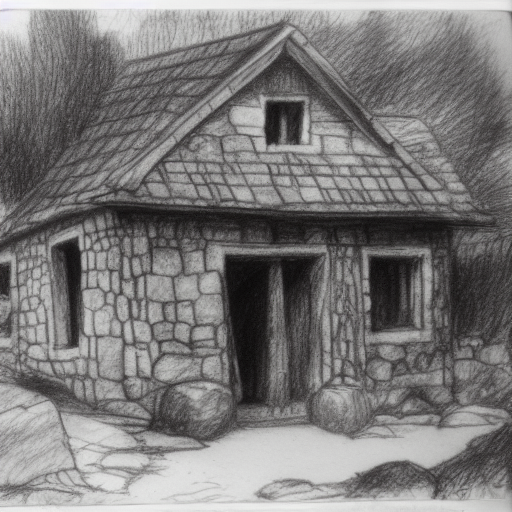
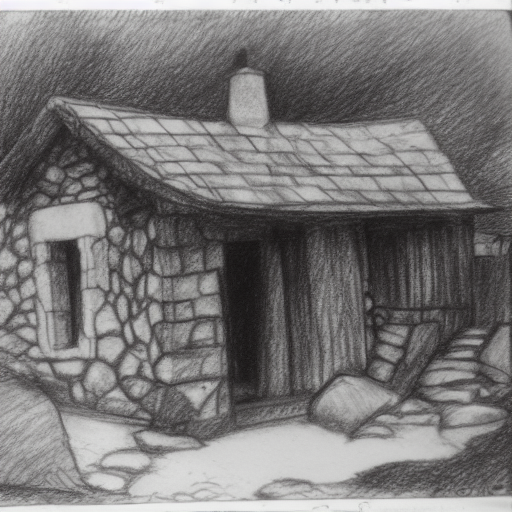
corpus: complete 8-look set (linocut --offline fix verified) + regen gallery
linocut now renders offline (prompt preset, no Civitai download/timeout) —
the discovery file-required fix (7343b69) confirmed live, not just unit.
All 8 looks present + verified (ink-wash…gouache, linocut). Gallery
re-indexed (61 images); the deferred outpaint (bands, #721) and stylize
(content-not-style, #722) outputs are excluded until properly fixed.

diff --git a/corpus/GALLERY.md b/corpus/GALLERY.md
@@ -1,90 +1,109 @@
 # plakat gallery
 
-50 images generated with **plakat**. Each is self-documenting — its generation parameters are embedded in the PNG. This index was built by `plakat gallery`.
+61 images generated with **plakat**. Each is self-documenting — its generation parameters are embedded in the PNG. This index was built by `plakat gallery`.
 
 <table>
   <tr>
     <td width="33%"><img src="images/animate/flower_bloom/animation.gif" alt="a time-lapse of a red rose blooming, macro photography, soft light"></td>
+    <td width="33%"><img src="images/script/fox-2x.png" alt=""></td>
     <td width="33%"><img src="images/animate/fox_snow/animation.gif" alt="a red fox walking through a snowy forest, cinematic, highly detailed"></td>
-    <td width="33%"><img src="images/upscale/landscape_x2/landscape_x2.png" alt=""></td>
   </tr>
   <tr>
+    <td width="33%"><img src="images/upscale/landscape_x2/landscape_x2.png" alt=""></td>
     <td width="33%"><img src="images/animate/ocean_waves/animation.gif" alt="ocean waves crashing on a rocky shore at sunset, cinematic, golden light"></td>
     <td width="33%"><img src="images/weather-scene/day_clear/plakat-42.png" alt=""></td>
-    <td width="33%"><img src="images/sd15/sd15_landscape/plakat-42.png" alt=""></td>
   </tr>
   <tr>
+    <td width="33%"><img src="images/genres/anime/plakat-42.png" alt="anime illustration, cel-shaded, clean line art, a lone knight resting under a blossoming cherry tree, anime aesthetic, expressive style, stylized proportions"></td>
+    <td width="33%"><img src="images/sd15/sd15_landscape/plakat-42.png" alt=""></td>
     <td width="33%"><img src="images/sdxl/sdxl_landscape/plakat-42.png" alt=""></td>
+  </tr>
+  <tr>
     <td width="33%"><img src="images/style-sd15/harbour/plakat-42.png" alt="a fishing harbour with wooden boats and distant hills, wcstyle watercolour painting illustration"></td>
     <td width="33%"><img src="images/style-sd15/winter-village/plakat-42.png" alt="a snow-covered mountain village among pines at dusk, wcstyle watercolour painting illustration"></td>
-  </tr>
-  <tr>
     <td width="33%"><img src="images/style-sd15/river-orchard/plakat-42.png" alt="a quiet riverside orchard with a wooden footbridge in autumn, wcstyle watercolour painting illustration"></td>
-    <td width="33%"><img src="images/style-sdxl/harbour/plakat-42.png" alt="a fishing harbour with wooden boats and distant hills, wcstyle watercolour painting illustration"></td>
-    <td width="33%"><img src="images/style-sdxl/winter-village/plakat-42.png" alt="a snow-covered mountain village among pines at dusk, wcstyle watercolour painting illustration"></td>
   </tr>
   <tr>
+    <td width="33%"><img src="images/looks/oil-painting/plakat-42.png" alt="oil painting, thick impasto brushstrokes, a stone cottage by a forest stream, on canvas texture, classical oil painting technique, rich pigments"></td>
+    <td width="33%"><img src="images/looks/charcoal/plakat-42.png" alt="charcoal drawing, monochromatic, dramatic chiaroscuro, a stone cottage by a forest stream, on textured paper, smudged shading, expressive marks"></td>
+    <td width="33%"><img src="images/looks/gouache/plakat-42.png" alt="gouache painting, opaque matte colors, a stone cottage by a forest stream, on illustration board, flat areas of color, illustrative"></td>
+  </tr>
+  <tr>
+    <td width="33%"><img src="images/looks/ink-wash/plakat-42.png" alt="ink wash painting, sumi-e style, monochromatic ink on rice paper, a stone cottage by a forest stream, traditional brush strokes, atmospheric negative space"></td>
+    <td width="33%"><img src="images/looks/chalk-pastel/plakat-42.png" alt="chalk pastel drawing, soft pastel strokes, a stone cottage by a forest stream, on textured paper, vibrant matte pigments, dusty surface"></td>
+    <td width="33%"><img src="images/looks/linocut/plakat-42.png" alt="linocut print, bold carved lines, high contrast, a stone cottage by a forest stream, limited palette, traditional relief print, visible carving marks"></td>
+  </tr>
+  <tr>
+    <td width="33%"><img src="images/looks/watercolor/plakat-42.png" alt="watercolor painting, soft transparent washes, a stone cottage by a forest stream, on cold-pressed paper, traditional watercolor techniques, visible paper texture"></td>
+    <td width="33%"><img src="images/looks/pencil/plakat-42.png" alt="pencil drawing, fine graphite lines, hatching and cross-hatching, a stone cottage by a forest stream, on sketchbook paper, traditional pencil sketch, detailed line work"></td>
+    <td width="33%"><img src="images/style-sdxl/harbour/plakat-42.png" alt="a fishing harbour with wooden boats and distant hills, wcstyle watercolour painting illustration"></td>
+  </tr>
+  <tr>
+    <td width="33%"><img src="images/style-sdxl/winter-village/plakat-42.png" alt="a snow-covered mountain village among pines at dusk, wcstyle watercolour painting illustration"></td>
     <td width="33%"><img src="images/style-sdxl/river-orchard/plakat-42.png" alt="a quiet riverside orchard with a wooden footbridge in autumn, wcstyle watercolour painting illustration"></td>
     <td width="33%"><img src="images/sd21/sd21_landscape/plakat-42.png" alt=""></td>
-    <td width="33%"><img src="images/weather-scene/day_storm/plakat-43.png" alt=""></td>
   </tr>
   <tr>
+    <td width="33%"><img src="images/weather-scene/day_storm/plakat-43.png" alt=""></td>
     <td width="33%"><img src="images/sd15/sd15_portrait/plakat-43.png" alt=""></td>
     <td width="33%"><img src="images/sdxl/sdxl_portrait/plakat-43.png" alt=""></td>
-    <td width="33%"><img src="images/sd21/sd21_portrait/plakat-43.png" alt=""></td>
   </tr>
   <tr>
+    <td width="33%"><img src="images/sd21/sd21_portrait/plakat-43.png" alt=""></td>
     <td width="33%"><img src="images/weather-scene/day_fog/plakat-44.png" alt=""></td>
     <td width="33%"><img src="images/sd15/sd15_still_life/plakat-44.png" alt=""></td>
-    <td width="33%"><img src="images/sdxl/sdxl_fantasy/plakat-44.png" alt=""></td>
   </tr>
   <tr>
+    <td width="33%"><img src="images/sdxl/sdxl_fantasy/plakat-44.png" alt=""></td>
     <td width="33%"><img src="images/sd21/sd21_still_life/plakat-44.png" alt=""></td>
     <td width="33%"><img src="images/weather-scene/dusk_clear/plakat-45.png" alt=""></td>
-    <td width="33%"><img src="images/sd15/sd15_controlnet_canny/plakat-45.png" alt=""></td>
   </tr>
   <tr>
+    <td width="33%"><img src="images/sd15/sd15_controlnet_canny/plakat-45.png" alt=""></td>
     <td width="33%"><img src="images/sdxl/sdxl_controlnet_canny/plakat-45.png" alt=""></td>
     <td width="33%"><img src="images/weather-scene/night_clear/plakat-46.png" alt=""></td>
-    <td width="33%"><img src="images/cascade/cascade_landscape/plakat-cascade-42.png" alt="a serene mountain lake at golden sunrise, snow-capped peak behind, autumn forest on the shore, photorealistic"></td>
   </tr>
   <tr>
+    <td width="33%"><img src="images/cascade/cascade_landscape/plakat-cascade-42.png" alt="a serene mountain lake at golden sunrise, snow-capped peak behind, autumn forest on the shore, photorealistic"></td>
     <td width="33%"><img src="images/cascade/cascade_portrait_oil/plakat-cascade-43.png" alt="a portrait of a weathered fisherman in his sixties, kind eyes, knitted sweater, soft window light, oil paint style"></td>
     <td width="33%"><img src="images/cascade/cascade_watercolour/plakat-cascade-44.png" alt="an abstract book illustration in salvador dali style, a ring of apple trees with blue leaves around a small figure reading, night sky, watercolor"></td>
-    <td width="33%"><img src="images/cascade/cascade_city/plakat-cascade-45.png" alt="a busy european street in the 1850s, two-storey houses, vendors and crowds in light tunics, bright low sun with visible rays, photorealistic"></td>
   </tr>
   <tr>
+    <td width="33%"><img src="images/cascade/cascade_city/plakat-cascade-45.png" alt="a busy european street in the 1850s, two-storey houses, vendors and crowds in light tunics, bright low sun with visible rays, photorealistic"></td>
     <td width="33%"><img src="images/cascade/cascade_controlnet_canny/plakat-cascade-46.png" alt="a cozy cottage in an autumn forest, golden leaves, photorealistic"></td>
     <td width="33%"><img src="images/img2img/forest_inkwash/plakat-img2img-42.png" alt=""></td>
-    <td width="33%"><img src="images/img2img/portrait_watercolor/plakat-img2img-42.png" alt=""></td>
   </tr>
   <tr>
+    <td width="33%"><img src="images/img2img/portrait_watercolor/plakat-img2img-42.png" alt=""></td>
     <td width="33%"><img src="images/img2img/coast_oil/plakat-img2img-42.png" alt=""></td>
+    <td width="33%"><img src="images/inpaint/plakat-inpaint-42.png" alt=""></td>
+  </tr>
+  <tr>
     <td width="33%"><img src="images/pixart/pixart_landscape/plakat-pixart-42.png" alt="terraced rice fields at dawn, mist in the valley, a lone farmer, photorealistic"></td>
     <td width="33%"><img src="images/pixart/pixart_still_life/plakat-pixart-43.png" alt="a rustic still life of bread, cheese, grapes and a clay jug on a wooden table, warm light, oil painting"></td>
+    <td width="33%"><img src="images/pixart/pixart_scifi/plakat-pixart-44.png" alt="a sleek solar-sail spacecraft passing a ringed gas giant, distant stars, detailed sci-fi illustration"></td>
   </tr>
   <tr>
-    <td width="33%"><img src="images/pixart/pixart_scifi/plakat-pixart-44.png" alt="a sleek solar-sail spacecraft passing a ringed gas giant, distant stars, detailed sci-fi illustration"></td>
     <td width="33%"><img src="images/portrait/astronaut/plakat-portrait-42.png" alt=""></td>
     <td width="33%"><img src="images/portrait/cartographer/plakat-portrait-42.png" alt=""></td>
+    <td width="33%"><img src="images/portrait/blacksmith/plakat-portrait-42.png" alt=""></td>
   </tr>
   <tr>
-    <td width="33%"><img src="images/portrait/blacksmith/plakat-portrait-42.png" alt=""></td>
     <td width="33%"><img src="images/portrait/sage_scholar/plakat-portrait-42.png" alt=""></td>
     <td width="33%"><img src="images/portrait/sage_captain/plakat-portrait-43.png" alt=""></td>
+    <td width="33%"><img src="images/style/harbour/plakat-sd3-denoise-42.png" alt=""></td>
   </tr>
   <tr>
-    <td width="33%"><img src="images/style/harbour/plakat-sd3-denoise-42.png" alt=""></td>
     <td width="33%"><img src="images/style/winter-village/plakat-sd3-denoise-42.png" alt=""></td>
     <td width="33%"><img src="images/style/river-orchard/plakat-sd3-denoise-42.png" alt=""></td>
+    <td width="33%"><img src="images/sd35/sd35_still_life/plakat-sd3-denoise-42.png" alt=""></td>
   </tr>
   <tr>
-    <td width="33%"><img src="images/sd35/sd35_still_life/plakat-sd3-denoise-42.png" alt=""></td>
     <td width="33%"><img src="images/sd35/sd35_portrait/plakat-sd3-denoise-43.png" alt=""></td>
     <td width="33%"><img src="images/sd35/sd35_text/plakat-sd3-denoise-44.png" alt=""></td>
+    <td width="33%"><img src="images/upscale/portrait_x2/portrait_x2.png" alt=""></td>
   </tr>
   <tr>
-    <td width="33%"><img src="images/upscale/portrait_x2/portrait_x2.png" alt=""></td>
     <td width="33%"><img src="images/upscale/still_life_x2/still_life_x2.png" alt=""></td>
   </tr>
 </table>
@@ -100,6 +119,12 @@
 Negative: `bad quality, worse quality, blurry, low resolution`
 
 `Lykon/dreamshaper-8` · animatediff · 8 frames · 512×512 · 25 steps · CFG 7.5 · seed 42
+
+### fox-2x.png
+
+![fox-2x.png](images/script/fox-2x.png)
+
+_(no embedded metadata)_
 
 ### fox_snow
 
@@ -135,6 +160,16 @@ _(no embedded metadata)_
 
 ### plakat-42.png
 
+![plakat-42.png](images/genres/anime/plakat-42.png)
+
+> anime illustration, cel-shaded, clean line art, a lone knight resting under a blossoming cherry tree, anime aesthetic, expressive style, stylized proportions
+
+Negative: `photographic, realistic skin texture, photorealistic, 3d render, hyperrealism`
+
+`sd15` · genre: anime · 512×512 · 24 steps · CFG 8 · seed 42
+
+### plakat-42.png
+
 ![plakat-42.png](images/sd15/sd15_landscape/plakat-42.png)
 
 _(no embedded metadata)_
@@ -151,7 +186,7 @@ _(no embedded metadata)_
 
 > a fishing harbour with wooden boats and distant hills, wcstyle watercolour painting illustration
 
-`sd15` · LoRA: corpus/style/watercolour-sd15.safetensors:1 · 512×512 · 28 steps · CFG 7.5 · seed 42
+`sd15` · LoRA: /Users/gandalf/Src/plakat/corpus/style/watercolour-sd15.safetensors:1 · 512×512 · 26 steps · CFG 7.5 · seed 42
 
 ### plakat-42.png
 
@@ -159,7 +194,7 @@ _(no embedded metadata)_
 
 > a snow-covered mountain village among pines at dusk, wcstyle watercolour painting illustration
 
-`sd15` · LoRA: corpus/style/watercolour-sd15.safetensors:1 · 512×512 · 28 steps · CFG 7.5 · seed 42
+`sd15` · LoRA: /Users/gandalf/Src/plakat/corpus/style/watercolour-sd15.safetensors:1 · 512×512 · 26 steps · CFG 7.5 · seed 42
 
 ### plakat-42.png
 
@@ -167,7 +202,87 @@ _(no embedded metadata)_
 
 > a quiet riverside orchard with a wooden footbridge in autumn, wcstyle watercolour painting illustration
 
-`sd15` · LoRA: corpus/style/watercolour-sd15.safetensors:1 · 512×512 · 28 steps · CFG 7.5 · seed 42
+`sd15` · LoRA: /Users/gandalf/Src/plakat/corpus/style/watercolour-sd15.safetensors:1 · 512×512 · 26 steps · CFG 7.5 · seed 42
+
+### plakat-42.png
+
+![plakat-42.png](images/looks/oil-painting/plakat-42.png)
+
+> oil painting, thick impasto brushstrokes, a stone cottage by a forest stream, on canvas texture, classical oil painting technique, rich pigments
+
+Negative: `photographic, smooth digital gradients, flat colors, 3d render, cgi`
+
+`sd15` · look: oil-painting · 512×512 · 40 steps · CFG 7 · seed 42
+
+### plakat-42.png
+
+![plakat-42.png](images/looks/charcoal/plakat-42.png)
+
+> charcoal drawing, monochromatic, dramatic chiaroscuro, a stone cottage by a forest stream, on textured paper, smudged shading, expressive marks
+
+Negative: `colorful, photographic, vector art, smooth digital gradients, painted`
+
+`sd15` · look: charcoal · 512×512 · 30 steps · CFG 6.5 · seed 42
+
+### plakat-42.png
+
+![plakat-42.png](images/looks/gouache/plakat-42.png)
+
+> gouache painting, opaque matte colors, a stone cottage by a forest stream, on illustration board, flat areas of color, illustrative
+
+Negative: `photographic, glossy, transparent washes, 3d render, photorealistic`
+
+`sd15` · look: gouache · 512×512 · 32 steps · CFG 6.5 · seed 42
+
+### plakat-42.png
+
+![plakat-42.png](images/looks/ink-wash/plakat-42.png)
+
+> ink wash painting, sumi-e style, monochromatic ink on rice paper, a stone cottage by a forest stream, traditional brush strokes, atmospheric negative space
+
+Negative: `photographic, colorful, smooth digital gradients, 3d render, oil painting`
+
+`sd15` · look: ink-wash · 512×512 · 32 steps · CFG 6.5 · seed 42
+
+### plakat-42.png
+
+![plakat-42.png](images/looks/chalk-pastel/plakat-42.png)
+
+> chalk pastel drawing, soft pastel strokes, a stone cottage by a forest stream, on textured paper, vibrant matte pigments, dusty surface
+
+Negative: `photographic, smooth digital gradients, glossy, 3d render`
+
+`sd15` · look: chalk-pastel · 512×512 · 32 steps · CFG 6 · seed 42
+
+### plakat-42.png
+
+![plakat-42.png](images/looks/linocut/plakat-42.png)
+
+> linocut print, bold carved lines, high contrast, a stone cottage by a forest stream, limited palette, traditional relief print, visible carving marks
+
+Negative: `photographic, smooth gradients, soft edges, photorealistic, painted`
+
+`sd15` · look: linocut · 512×512 · 28 steps · CFG 7.5 · seed 42
+
+### plakat-42.png
+
+![plakat-42.png](images/looks/watercolor/plakat-42.png)
+
+> watercolor painting, soft transparent washes, a stone cottage by a forest stream, on cold-pressed paper, traditional watercolor techniques, visible paper texture
+
+Negative: `photographic, smooth digital gradients, oil painting, 3d render, glossy`
+
+`sd15` · look: watercolor · 512×512 · 32 steps · CFG 6 · seed 42
+
+### plakat-42.png
+
+![plakat-42.png](images/looks/pencil/plakat-42.png)
+
+> pencil drawing, fine graphite lines, hatching and cross-hatching, a stone cottage by a forest stream, on sketchbook paper, traditional pencil sketch, detailed line work
+
+Negative: `colorful, photographic, painted, smooth digital gradients, vector art`
+
+`sd15` · look: pencil · 512×512 · 28 steps · CFG 6.5 · seed 42
 
 ### plakat-42.png
 
@@ -336,6 +451,12 @@ _(no embedded metadata)_
 ### plakat-img2img-42.png
 
 ![plakat-img2img-42.png](images/img2img/coast_oil/plakat-img2img-42.png)
+
+_(no embedded metadata)_
+
+### plakat-inpaint-42.png
+
+![plakat-inpaint-42.png](images/inpaint/plakat-inpaint-42.png)
 
 _(no embedded metadata)_
 
